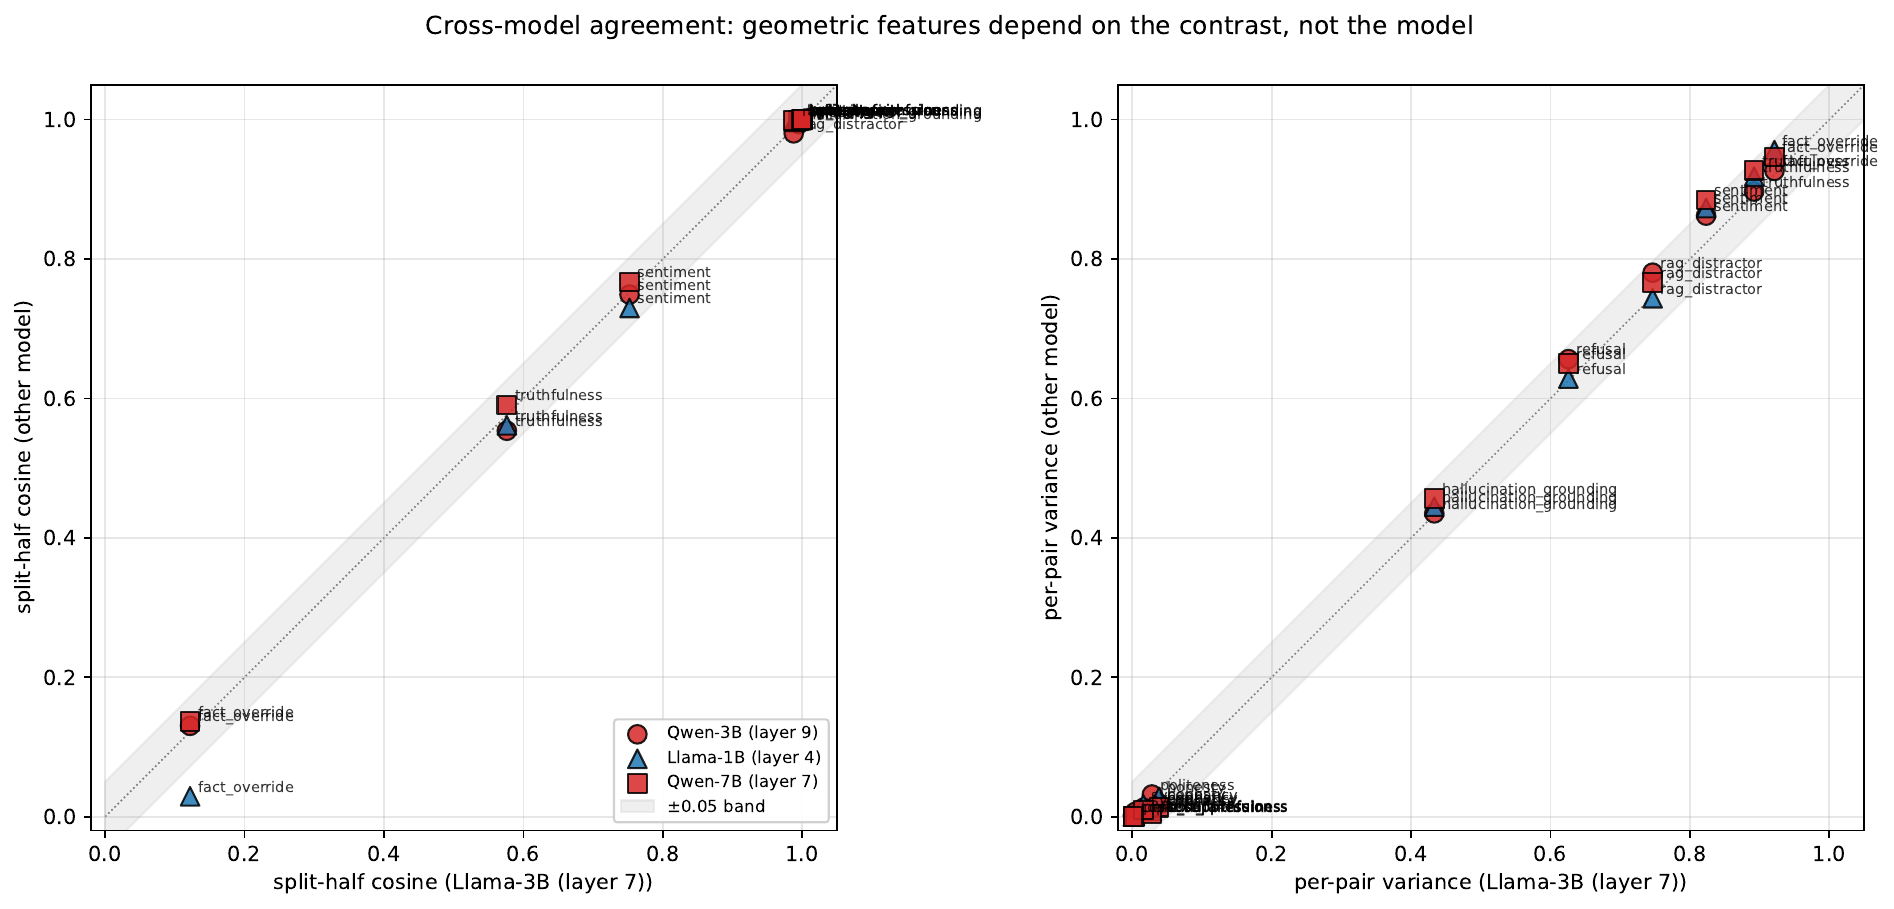
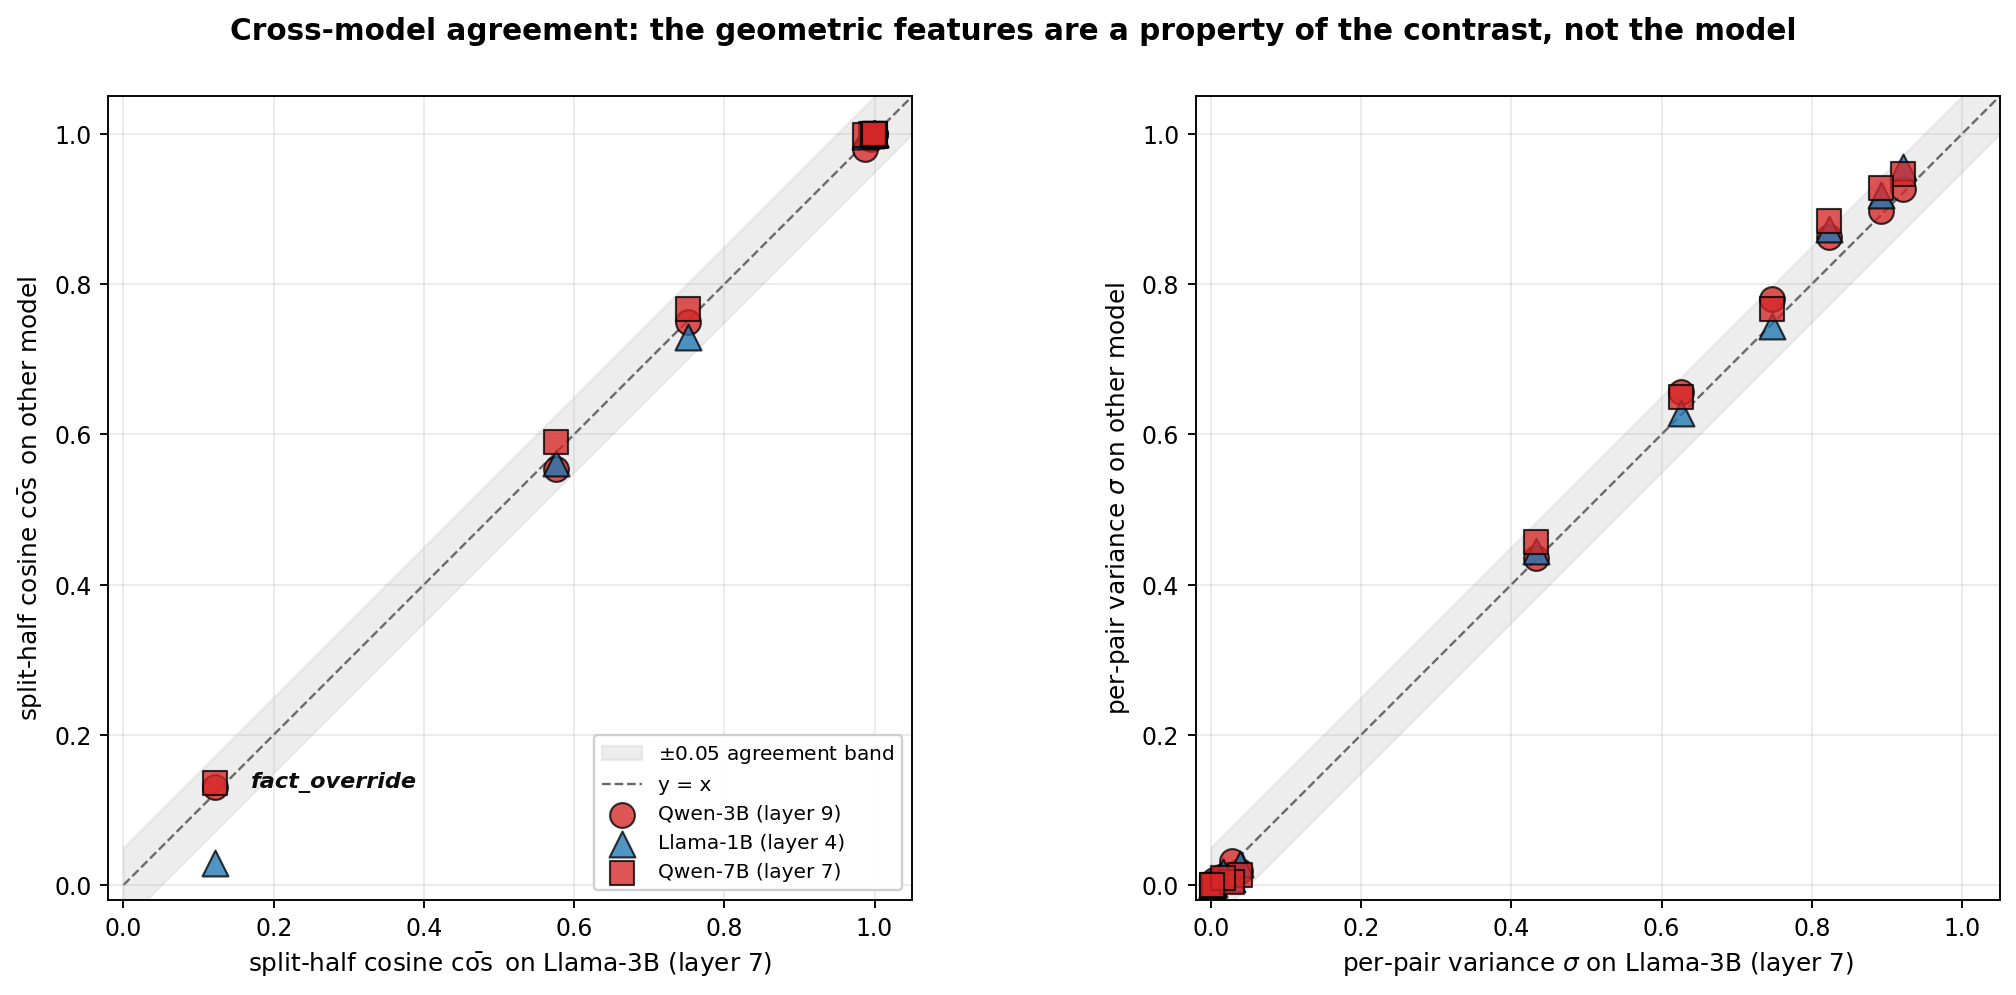
fig: regenerate cross_model.png in a clean README-friendly style
The labeled paper version (cross_model_4models.pdf, generated by
plot_cross_model.py) is dense by design so a reader can identify
every task in the PDF column. At README width many points piled up
at cos~=1.0 and var~=0; multiple task labels overlapped illegibly.

plot_cross_model_clean.py is a separate, README-only renderer that:
  - drops per-point labels entirely (the visual message is 'all
    points sit on the y=x diagonal'; identifying each task is the
    paper figure's job)
  - annotates ONLY fact_override, the lone outlier at cos~=0.13,
    once total across all panels and models
  - uses bigger markers + larger axis labels for readability
  - keeps the y=x line and +/- 0.05 agreement band

Output: docs/img/cross_model.png. The paper's labeled PDF figure
is unchanged.

diff --git a/plot_cross_model_clean.py b/plot_cross_model_clean.py
@@ -1,0 +1,111 @@
+"""Clean README-style cross-model agreement plot.
+
+The labeled version (`plot_cross_model.py` -> `cross_model_4models.pdf`)
+is dense by design so a reader can identify every task in the paper.
+That gets unreadable at README width where many points pile up at
+cos~=1.0 and var~=0.
+
+This version drops the per-point labels, uses bigger markers, and
+labels only `fact_override` (the conspicuous outlier at low cos).
+The visual message remains: every point sits on the y=x diagonal.
+
+Output: docs/img/cross_model.png
+"""
+from __future__ import annotations
+
+import glob
+import json
+from pathlib import Path
+
+import matplotlib.pyplot as plt
+
+
+REPORT_DIRS = {
+    "Llama-3B (layer 7)":  ("taxonomy_reports",          "#1f77b4", "o", 110),
+    "Qwen-3B (layer 9)":   ("taxonomy_reports_qwen",     "#d62728", "o", 110),
+    "Llama-1B (layer 4)":  ("taxonomy_reports_llama1b",  "#1f77b4", "^", 120),
+    "Qwen-7B (layer 7)":   ("taxonomy_reports_qwen7b",   "#d62728", "s", 110),
+}
+ANCHOR = "Llama-3B (layer 7)"
+OUTLIER = "fact_override"  # only point worth annotating; lives at low cos
+
+
+def load_reports(reports_dir):
+    out = {}
+    for p in sorted(glob.glob(str(Path(reports_dir) / "*.json"))):
+        with open(p) as f:
+            r = json.load(f)
+            out[r["task_name"]] = r
+    return out
+
+
+def main():
+    available = {}
+    for label, (d, _, _, _) in REPORT_DIRS.items():
+        if Path(d).exists():
+            reps = load_reports(d)
+            if reps:
+                available[label] = reps
+    anchor_reps = available[ANCHOR]
+    others = [k for k in available if k != ANCHOR]
+
+    fig, (ax_a, ax_b) = plt.subplots(1, 2, figsize=(13, 5.8))
+    outlier_annotated = False  # only annotate fact_override once total
+    for ax, feat, name in [(ax_a, "split_half_cos_mean",
+                            r"split-half cosine $\bar{\cos}$"),
+                           (ax_b, "per_pair_variance",
+                            r"per-pair variance $\sigma$")]:
+        # Shaded +/- 0.05 band first so it's behind everything
+        ax.fill_between([0, 1.05], [-0.05, 1.00], [0.05, 1.10],
+                        color="lightgray", alpha=0.4, zorder=0,
+                        label=r"$\pm$0.05 agreement band")
+        # Diagonal
+        ax.plot([0, 1.05], [0, 1.05], color="dimgray",
+                linestyle="--", linewidth=1.0, zorder=1, label="y = x")
+        # Per-model scatter
+        for label in others:
+            _, color, marker, size = REPORT_DIRS[label]
+            xs, ys, names = [], [], []
+            for task, anchor_row in anchor_reps.items():
+                if task not in available[label]:
+                    continue
+                xs.append(anchor_row[feat])
+                ys.append(available[label][task][feat])
+                names.append(task)
+            ax.scatter(xs, ys, s=size, color=color, marker=marker,
+                       edgecolor="black", linewidths=0.9,
+                       label=label, alpha=0.78, zorder=3)
+            # Only label fact_override on the cos panel, only once total
+            # across all (model, panel) iterations. It's the visual outlier;
+            # everyone else sits on the diagonal.
+            if feat == "split_half_cos_mean" and not outlier_annotated:
+                for xi, yi, ni in zip(xs, ys, names):
+                    if ni == OUTLIER:
+                        ax.annotate(ni, xy=(xi, yi),
+                                    xytext=(15, 0),
+                                    textcoords="offset points",
+                                    fontsize=9.5, alpha=0.95,
+                                    fontstyle="italic", fontweight="bold")
+                        outlier_annotated = True
+                        break
+        ax.set_xlabel(f"{name} on {ANCHOR}", fontsize=10.5)
+        ax.set_ylabel(f"{name} on other model", fontsize=10.5)
+        ax.set_xlim(-0.02, 1.05)
+        ax.set_ylim(-0.02, 1.05)
+        ax.grid(alpha=0.25)
+        ax.set_aspect("equal")
+        if ax is ax_a:
+            ax.legend(loc="lower right", fontsize=8.5, framealpha=0.94)
+
+    fig.suptitle("Cross-model agreement: the geometric features are a "
+                 "property of the contrast, not the model",
+                 fontsize=12.5, y=1.00, fontweight="bold")
+    fig.tight_layout()
+    out = "docs/img/cross_model.png"
+    Path("docs/img").mkdir(parents=True, exist_ok=True)
+    fig.savefig(out, dpi=170, bbox_inches="tight")
+    print(f"Wrote {out}")
+
+
+if __name__ == "__main__":
+    main()